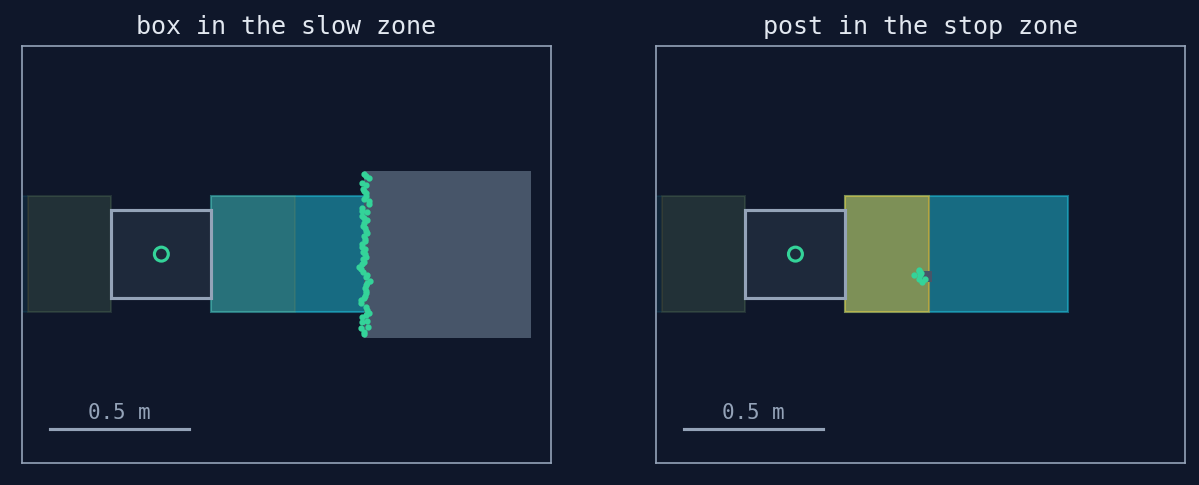
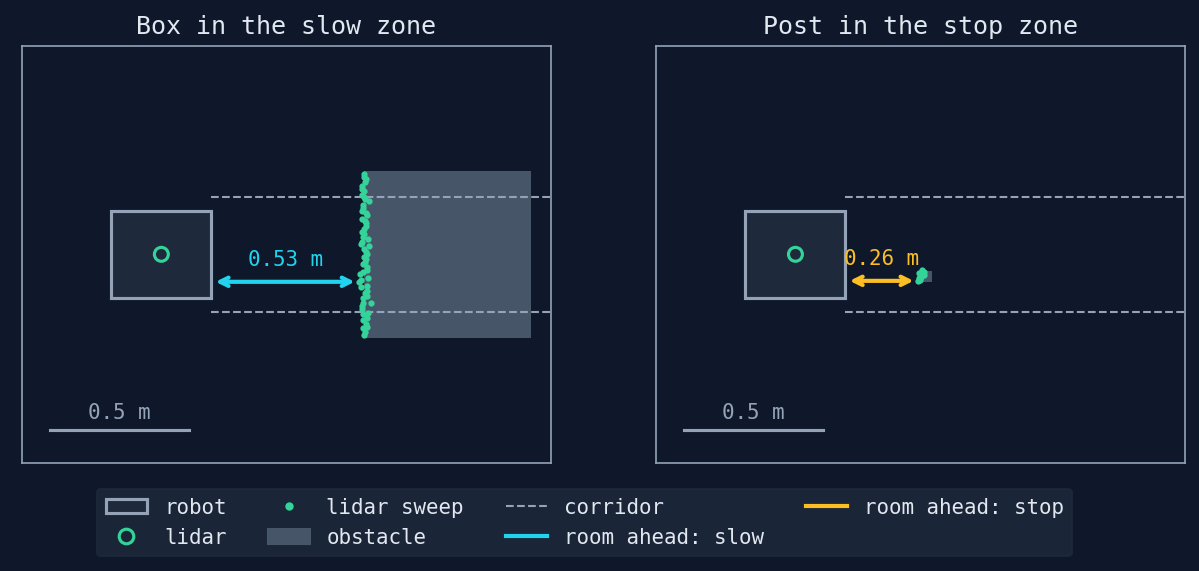
feat: draw the room the guard measures ahead

diff --git a/experiments/guard_view.py b/experiments/guard_view.py
@@ -2,9 +2,9 @@
 """What the lidar guard sees, from above: the robot with the box ahead, then close to a post.
 
 Gazebo places the robot at each pose and lets it settle. The figure draws, in the robot's frame,
-what is solid in the world from its true geometry, the robot's outline, one lidar scan, and the
-guard's zones as the guard itself reports them on /scan_guard/zones: solid while something is in
-them, faint while clear.
+what is solid in the world from its true geometry, the robot's outline, one lidar scan, the
+corridor the guard watches ahead, and the room from the robot's front to the nearest return in it,
+in the colour of the zone the guard itself reports on /scan_guard/zones.
 
 Run from the repository root, with the guard on (see experiments/README.md):
     experiments/sim.sh guard:=true -- python3 experiments/guard_view.py
@@ -21,7 +21,8 @@ from pathlib import Path
 import numpy as np
 import plot_style
 import rclpy
-from matplotlib.patches import Circle, Polygon, Rectangle
+from matplotlib.lines import Line2D
+from matplotlib.patches import Circle, Patch, Polygon, Rectangle
 from nav_msgs.msg import Odometry
 from plot_style import plt
 from rclpy.node import Node
@@ -35,8 +36,8 @@ from world import RESULTS, solids
 
 # Poses to look from: title, x, y and heading in degrees. The front edge is 0.18 m ahead of x.
 VIEWS = (
-    ("box in the slow zone", 0.97, 2.4, 0.0),  # 0.55 m from the box's face
-    ("post in the stop zone", 0.06, 0.08, 0.0),  # 0.27 m from the post, which is off-centre
+    ("Box in the slow zone", 0.97, 2.4, 0.0),  # 0.55 m from the box's face
+    ("Post in the stop zone", 0.06, 0.08, 0.0),  # 0.27 m from the post, off-centre
 )
 AHEAD_M, BEHIND_M, SIDE_M = 1.4, 0.5, 0.75  # the part of the room each panel shows
 SETTLE_S = 1.0  # simulated seconds after Gazebo moves the robot
@@ -123,37 +124,24 @@ def _in_robot_frame(points: np.ndarray, pose: tuple[float, float, float]) -> np.
     return np.column_stack((c * d[:, 0] + s * d[:, 1], -s * d[:, 0] + c * d[:, 1]))
 
 
-def draw(axis, title: str, pose, scan: LaserScan, zones, guard: dict, mount, blocks) -> None:
-    """One panel, in the robot's frame: x forward, y to the left."""
+def draw(axis, title: str, pose, scan: LaserScan, zones, guard: dict, mount, blocks) -> float:
+    """One panel, in the robot's frame: x forward, y to the left.
+
+    Returns:
+        The room ahead, from the robot's front to the nearest return inside its corridor.
+    """
     front, rear, half = guard["front"], guard["rear"], guard["half_width"]
-    width = 2 * (half + guard["side_margin"])
-    occupied = {(m.ns, m.id): m.color.a > OCCUPIED_ALPHA for m in zones.markers}
+    corridor = half + guard["side_margin"]
+    lit = {m.id for m in zones.markers if m.ns == "ahead" and m.color.a > OCCUPIED_ALPHA}
+    # The stop zone (id 1) overrides the slow one (id 0).
+    colour = plot_style.AMBER if 1 in lit else plot_style.CYAN if 0 in lit else plot_style.MUTED
 
     for block in blocks.values():
         (x0, y0), (x1, y1) = block.low[:2], block.high[:2]
         corners = np.array([[x0, y0], [x1, y0], [x1, y1], [x0, y1]])
         axis.add_patch(Polygon(_in_robot_frame(corners, pose), color=SOLID, lw=0, zorder=2))
-
-    # The guard's slabs: the slow zone (id 0) reaches from the edge to slow_distance, and the stop
-    # zone (id 1) is drawn over its first part. The same pair lies behind the robot.
-    for ns, edge, sign in (("ahead", front, 1), ("behind", -rear, -1)):
-        for zone_id, length, colour in (
-            (0, guard["slow_distance"], plot_style.CYAN),
-            (1, guard["stop_distance"], plot_style.AMBER),
-        ):
-            start = edge if sign > 0 else edge - length
-            alpha = 0.45 if occupied.get((ns, zone_id), False) else 0.08
-            axis.add_patch(
-                Rectangle(
-                    (start, -width / 2),
-                    length,
-                    width,
-                    facecolor=colour,
-                    alpha=alpha,
-                    edgecolor=colour,
-                    lw=1,
-                )
-            )
+    for side in (-corridor, corridor):
+        axis.plot([front, AHEAD_M], [side, side], color=plot_style.MUTED, lw=1, ls="--")
 
     axis.add_patch(
         Rectangle(
@@ -176,6 +164,16 @@ def draw(axis, title: str, pose, scan: LaserScan, zones, guard: dict, mount, blo
     )[valid]
     axis.scatter(points[:, 0], points[:, 1], s=4, color=plot_style.EMERALD, zorder=3)
 
+    ahead = points[(points[:, 0] >= front) & (np.abs(points[:, 1]) <= corridor)]
+    if not len(ahead):
+        raise RuntimeError(f"{title}: nothing ahead inside the corridor")
+    nearest = ahead[np.argmin(ahead[:, 0])]
+    room = float(nearest[0] - front)
+    axis.annotate("", xy=tuple(nearest), xytext=(front, nearest[1]), zorder=4,
+                  arrowprops={"arrowstyle": "<->", "color": colour, "lw": 2})  # fmt: skip
+    axis.text((front + nearest[0]) / 2, nearest[1] + 0.06, f"{room:.2f} m", ha="center",
+              color=colour, zorder=4)  # fmt: skip
+
     axis.plot([-BEHIND_M + 0.1, -BEHIND_M + 0.6], [-SIDE_M + 0.12] * 2, color=plot_style.MUTED)
     axis.text(-BEHIND_M + 0.35, -SIDE_M + 0.16, "0.5 m", ha="center", color=plot_style.MUTED)
     axis.set_xlim(-BEHIND_M, AHEAD_M)
@@ -184,6 +182,30 @@ def draw(axis, title: str, pose, scan: LaserScan, zones, guard: dict, mount, blo
     axis.set_xticks([])
     axis.set_yticks([])
     axis.set_title(title)
+    return room
+
+
+def legend_handles() -> list:
+    """What each mark in the panels stands for."""
+    return [
+        Patch(facecolor=plot_style.PANEL, edgecolor=plot_style.MUTED, lw=1.5, label="robot"),
+        Line2D(
+            [],
+            [],
+            ls="",
+            marker="o",
+            ms=7,
+            mfc="none",
+            mec=plot_style.EMERALD,
+            mew=1.5,
+            label="lidar",
+        ),
+        Line2D([], [], ls="", marker="o", ms=3, color=plot_style.EMERALD, label="lidar sweep"),
+        Patch(color=SOLID, label="obstacle"),
+        Line2D([], [], ls="--", lw=1, color=plot_style.MUTED, label="corridor"),
+        Line2D([], [], lw=2, color=plot_style.CYAN, label="room ahead: slow"),
+        Line2D([], [], lw=2, color=plot_style.AMBER, label="room ahead: stop"),
+    ]
 
 
 def main() -> None:
@@ -202,13 +224,21 @@ def main() -> None:
     for axis, (title, x, y, heading) in zip(axes, VIEWS, strict=True):
         pose, scan, zones = node.look(placer, x, y, math.radians(heading))
         mount = mount or node.lidar_mount(scan.header.frame_id)
-        draw(axis, title, pose, scan, zones, guard, mount, blocks)
+        room = draw(axis, title, pose, scan, zones, guard, mount, blocks)
         returns = sum(1 for r in scan.ranges if scan.range_min <= r <= scan.range_max)
         lit = sum(1 for m in zones.markers if m.color.a > OCCUPIED_ALPHA)
         print(
             f"  {title}: robot at ({pose[0]:.2f}, {pose[1]:.2f}, {math.degrees(pose[2]):.0f} deg), "
-            f"{returns} returns, {lit} zones lit"
+            f"{returns} returns, {room:.2f} m ahead, {lit} zones lit"
         )
+    for axis in axes:
+        axis.apply_aspect()  # settles each panel's box, to hang the legend right under them
+    figure.legend(
+        handles=legend_handles(),
+        loc="upper center",
+        bbox_to_anchor=(0.5, min(axis.get_position().y0 for axis in axes) - 0.02),
+        ncol=4,
+    )
     path = args.out / "guard-view.png"
     plot_style.save(figure, path)
     print(f"wrote {path}")

diff --git a/experiments/stopping_report.py b/experiments/stopping_report.py
@@ -443,13 +443,13 @@ def plot_approach(settings: dict, trials: list[Trial], path: Path) -> None:
         axis.plot(trial.room[1:], step, color=colour, label=f"{trial.speed:.2f} m/s")
     axis.set_xlim(1.5, 0)
     axis.set_ylim(0, None)
-    axis.set_xlabel("room ahead (m)")
-    axis.set_ylabel("true speed (m/s)")
-    axis.set_title("Driving head-on at a wall")
-    axis.text(stop / 2, 0.02, "stop", ha="center", color=plot_style.AMBER)
-    axis.text((stop + slow) / 2, 0.02, "slow", ha="center", color=plot_style.CYAN)
+    axis.set_xlabel("distance to the wall (m)")
+    axis.set_ylabel("speed (m/s)")
+    axis.set_title("Speed while driving head-on at a wall")
+    axis.text(stop / 2, 0.02, "stop zone", ha="center", color=plot_style.AMBER)
+    axis.text((stop + slow) / 2, 0.02, "slow zone", ha="center", color=plot_style.CYAN)
     axis.grid(True)
-    axis.legend(loc="upper left")
+    axis.legend(title="speed", loc="upper left")
     plot_style.save(figure, path)
 
 
@@ -468,7 +468,7 @@ def plot_appear(settings: dict, outcomes: list[Outcome], path: Path) -> None:
         [100 * stop_estimate(v, settings, base) for v in speeds],
         color=plot_style.MUTED,
         linestyle="--",
-        label="estimate from rates and braking",
+        label="estimate",
     )
     axis.axhline(100 * stop_zone, color=plot_style.AMBER, linewidth=1.5)
     axis.text(0.01, 100 * stop_zone + 0.8, "stop zone", color=plot_style.AMBER)
@@ -478,14 +478,14 @@ def plot_appear(settings: dict, outcomes: list[Outcome], path: Path) -> None:
         [100 * o.after_placed for o in appear],
         color=plot_style.CYAN,
         s=16,
-        label="measured, one trial each",
+        label="trial",
         zorder=3,
     )
     axis.set_xlim(0, base["max_speed"] + 0.05)
     axis.set_ylim(0, 100 * stop_zone + 5)
-    axis.set_xlabel("speed when the box appeared (m/s)")
-    axis.set_ylabel("distance to rest (cm)")
-    axis.set_title("From a box appearing to the robot at rest")
+    axis.set_xlabel("speed (m/s)")
+    axis.set_ylabel("distance covered (cm)")
+    axis.set_title("Distance covered after a box appears ahead")
     axis.grid(True)
     axis.legend(loc="upper left", bbox_to_anchor=(0.0, 0.84))
     plot_style.save(figure, path)

diff --git a/experiments/README.md b/experiments/README.md
@@ -11,7 +11,7 @@ run without ROS, on any machine with NumPy, Matplotlib and PyYAML.
 | `turning` | How far does the wheel odometry stray from the truth, per wheel collision shape? | Two turns in place at three rates and in both directions, and 2 m straight at two speeds, three times each |
 | `camera_views` | Which markers in the camera's view does the detector read? | Gazebo places the robot at its start pose and turned toward the box. The markers in view come from projecting the world with the camera's true pose. `--stock` detects with OpenCV's defaults |
 | `perception` | How often is a marker in view read, with whole cells and with cell centres, and how far off is the pose measured? | The `visibility` grid, with 12 headings turned by a random offset at each point. Every frame is read both ways |
-| `guard_view` | What does the guard see, and which of its zones does it light? | Gazebo places the robot with the box ahead and then close to a post. One scan, the robot and the zones as the guard reports them, drawn from above |
+| `guard_view` | What does the guard see ahead, and which zone does it apply? | Gazebo places the robot with the box ahead and then close to a post. One scan from above, with the corridor and the room to the nearest return in it, in the colour of the zone the guard reports |
 | `stopping` | How much room does the lidar guard leave, and how much does the robot need when something appears in its way? | Through the guard, at four speeds: drives at the back wall from six angles, past or into a post at four offsets, and at the box's face and corner. Then across open floor while Gazebo puts a box ahead of it, at eight distances. Approaches three times each, appearances five |
 | `localization` | How far from the truth does each marker's fix land, and does the localizer's covariance cover it? | The `visibility` grid, with 12 headings turned by offsets of its own. Every frame is read with four corner windows, and the localizer's code turns each marker read into a fix |
 
@@ -69,7 +69,7 @@ visibility.py          which markers the robot reads from each spot (report: vis
 turning.py             the odometry against the truth while turning (report: turning_report.py)
 camera_views.py        the camera's view from two poses, read and unread markers marked
 perception.py          read rate and pose error per marker in view (report: perception_report.py)
-guard_view.py          one scan and the guard's zones from above, in two poses
+guard_view.py          one scan and the room the guard measures ahead, from above, in two poses
 stopping.py            the guard's approaches and stops, on the true pose (report: stopping_report.py)
 localization.py        each marker's fix against the true pose (report: localization_report.py)
 results/<experiment>/  the raw numbers (CSV), summary.md and the figures
